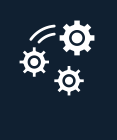
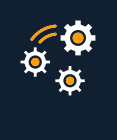
More graphics added, various fix

diff --git a/Marlin/src/lcd/extui/lib/mks_ui/draw_preHeat.cpp b/Marlin/src/lcd/extui/lib/mks_ui/draw_preHeat.cpp
@@ -161,8 +161,8 @@ void lv_draw_preHeat(void) {
   scr = lv_screen_create(PRE_HEAT_UI);
 
   // Create image buttons
-  lv_big_button_create(scr, "F:/bmp_Add.bin", preheat_menu.add, INTERVAL_V, titleHeight, event_handler, ID_P_ADD);
-  lv_big_button_create(scr, "F:/bmp_Dec.bin", preheat_menu.dec, BTN_X_PIXEL * 3 + INTERVAL_V * 4, titleHeight, event_handler, ID_P_DEC);
+  lv_big_button_create(scr, "F:/bmp_add.bin", preheat_menu.add, INTERVAL_V, titleHeight, event_handler, ID_P_ADD);
+  lv_big_button_create(scr, "F:/bmp_dec.bin", preheat_menu.dec, BTN_X_PIXEL * 3 + INTERVAL_V * 4, titleHeight, event_handler, ID_P_DEC);
 
   buttonType = lv_imgbtn_create(scr, nullptr, INTERVAL_V, BTN_Y_PIXEL + INTERVAL_H + titleHeight, event_handler, ID_P_TYPE);
   buttonStep = lv_imgbtn_create(scr, nullptr, BTN_X_PIXEL + INTERVAL_V * 2, BTN_Y_PIXEL + INTERVAL_H + titleHeight, event_handler, ID_P_STEP);
@@ -173,7 +173,7 @@ void lv_draw_preHeat(void) {
     }
   #endif
 
-  lv_big_button_create(scr, "F:/bmp_speed0.bin", preheat_menu.off, BTN_X_PIXEL * 2 + INTERVAL_V * 3, BTN_Y_PIXEL + INTERVAL_H + titleHeight, event_handler, ID_P_OFF);
+  lv_big_button_create(scr, "F:/bmp_0_degree.bin", preheat_menu.off, BTN_X_PIXEL * 2 + INTERVAL_V * 3, BTN_Y_PIXEL + INTERVAL_H + titleHeight, event_handler, ID_P_OFF);
   lv_big_button_create(scr, "F:/bmp_return.bin", common_menu.text_back, BTN_X_PIXEL * 3 + INTERVAL_V * 4, BTN_Y_PIXEL + INTERVAL_H + titleHeight, event_handler, ID_P_RETURN);
 
   // Create labels on the image buttons
@@ -191,14 +191,14 @@ void lv_draw_preHeat(void) {
 void disp_temp_type() {
   if (uiCfg.curTempType == 0) {
     if (uiCfg.curSprayerChoose == 1) {
-    lv_imgbtn_set_src_both(buttonType, "F:/bmp_extru2.bin");
+    lv_imgbtn_set_src_both(buttonType, "F:/bmp_extruder2.bin");
       if (gCfgItems.multiple_language) {
         lv_label_set_text(labelType, preheat_menu.ext2);
         lv_obj_align(labelType, buttonType, LV_ALIGN_IN_BOTTOM_MID, 0, BUTTON_TEXT_Y_OFFSET);
       }
     }
     else {
-    lv_imgbtn_set_src_both(buttonType, "F:/bmp_extru1.bin");
+    lv_imgbtn_set_src_both(buttonType, "F:/bmp_extruder1.bin");
       if (gCfgItems.multiple_language) {
         lv_label_set_text(labelType, preheat_menu.ext1);
         lv_obj_align(labelType, buttonType, LV_ALIGN_IN_BOTTOM_MID, 0, BUTTON_TEXT_Y_OFFSET);
@@ -238,13 +238,13 @@ void disp_desire_temp() {
 
 void disp_step_heat() {
   if (uiCfg.stepHeat == 1) {
-    lv_imgbtn_set_src_both(buttonStep, "F:/bmp_step1_degree.bin");
+    lv_imgbtn_set_src_both(buttonStep, "F:/bmp_step_a.bin");
   }
   else if (uiCfg.stepHeat == 5) {
-    lv_imgbtn_set_src_both(buttonStep, "F:/bmp_step5_degree.bin");
+    lv_imgbtn_set_src_both(buttonStep, "F:/bmp_step_b.bin");
   }
   else if (uiCfg.stepHeat == 10) {
-    lv_imgbtn_set_src_both(buttonStep, "F:/bmp_step10_degree.bin");
+    lv_imgbtn_set_src_both(buttonStep, "F:/bmp_step_c.bin");
   }
 
   if (gCfgItems.multiple_language) {

diff --git a/Marlin/src/lcd/extui/lib/mks_ui/draw_move_motor.cpp b/Marlin/src/lcd/extui/lib/mks_ui/draw_move_motor.cpp
@@ -116,13 +116,16 @@ static void event_handler(lv_obj_t *obj, lv_event_t event) {
 
 void lv_draw_move_motor(void) {
   scr = lv_screen_create(MOVE_MOTOR_UI);
-  lv_obj_t *buttonXI = lv_big_button_create(scr, "F:/bmp_xAdd.bin", move_menu.x_add, INTERVAL_V, titleHeight, event_handler, ID_M_X_P);
+  lv_obj_t *buttonXI = lv_big_button_create(scr, "F:/bmp_move_x_add.bin", move_menu.x_add, INTERVAL_V, titleHeight, event_handler, ID_M_X_P);
   lv_obj_clear_protect(buttonXI, LV_PROTECT_FOLLOW);
-  lv_big_button_create(scr, "F:/bmp_xDec.bin", move_menu.x_dec, INTERVAL_V, BTN_Y_PIXEL + INTERVAL_H + titleHeight, event_handler, ID_M_X_N);
-  lv_big_button_create(scr, "F:/bmp_yAdd.bin", move_menu.y_add, BTN_X_PIXEL + INTERVAL_V * 2, titleHeight, event_handler, ID_M_Y_P);
-  lv_big_button_create(scr, "F:/bmp_yDec.bin", move_menu.y_dec, BTN_X_PIXEL + INTERVAL_V * 2, BTN_Y_PIXEL + INTERVAL_H + titleHeight, event_handler, ID_M_Y_N);
-  lv_big_button_create(scr, "F:/bmp_zAdd.bin", move_menu.z_add, BTN_X_PIXEL * 2 + INTERVAL_V * 3, titleHeight, event_handler, ID_M_Z_P);
-  lv_big_button_create(scr, "F:/bmp_zDec.bin", move_menu.z_dec, BTN_X_PIXEL * 2 + INTERVAL_V * 3, BTN_Y_PIXEL + INTERVAL_H + titleHeight, event_handler, ID_M_Z_N);
+  lv_big_button_create(scr, "F:/bmp_move_x_dec.bin", move_menu.x_dec, INTERVAL_V, BTN_Y_PIXEL + INTERVAL_H + titleHeight, event_handler, ID_M_X_N);
+  lv_big_button_create(scr, "F:/bmp_move_y_add.bin", move_menu.y_add, BTN_X_PIXEL + INTERVAL_V * 2, titleHeight, event_handler, ID_M_Y_P);
+  lv_big_button_create(scr, "F:/bmp_move_y_dec.bin", move_menu.y_dec, BTN_X_PIXEL + INTERVAL_V * 2, BTN_Y_PIXEL + INTERVAL_H + titleHeight, event_handler, ID_M_Y_N);
+  lv_big_button_create(scr, "F:/bmp_move_z_add.bin", move_menu.z_add, BTN_X_PIXEL * 2 + INTERVAL_V * 3, titleHeight, event_handler, ID_M_Z_P);
+  lv_big_button_create(scr, "F:/bmp_move_z_dec.bin", move_menu.z_dec, BTN_X_PIXEL * 2 + INTERVAL_V * 3, BTN_Y_PIXEL + INTERVAL_H + titleHeight, event_handler, ID_M_Z_N);
+
+
+
 
   // button with image and label changed dinamycally by disp_move_dist
   buttonV = lv_imgbtn_create(scr, nullptr, BTN_X_PIXEL * 3 + INTERVAL_V * 4, titleHeight, event_handler, ID_M_STEP);
@@ -142,11 +145,11 @@ void disp_move_dist() {
   // char buf[30] = {0};
 
   if ((int)(10 * uiCfg.move_dist) == 1)
-    lv_imgbtn_set_src_both(buttonV, "F:/bmp_step_move0_1.bin");
+    lv_imgbtn_set_src_both(buttonV, "F:/bmp_step_a.bin");
   else if ((int)(10 * uiCfg.move_dist) == 10)
-    lv_imgbtn_set_src_both(buttonV, "F:/bmp_step_move1.bin");
+    lv_imgbtn_set_src_both(buttonV, "F:/bmp_step_b.bin");
   else if ((int)(10 * uiCfg.move_dist) == 100)
-    lv_imgbtn_set_src_both(buttonV, "F:/bmp_step_move10.bin");
+    lv_imgbtn_set_src_both(buttonV, "F:/bmp_step_c.bin");
 
   if (gCfgItems.multiple_language) {
     if ((int)(10 * uiCfg.move_dist) == 1) {

diff --git a/Marlin/src/lcd/extui/lib/mks_ui/pic_manager.cpp b/Marlin/src/lcd/extui/lib/mks_ui/pic_manager.cpp
@@ -44,11 +44,10 @@ extern unsigned char bmp_public_buf[14 * 1024];
 
 static const char assets[][LONG_FILENAME_LENGTH] = {
   //homing screen
-  "bmp_zeroAll.bin",
   "bmp_zero.bin",
-  "bmp_zeroX.bin",
-  "bmp_zeroY.bin",
-  "bmp_zeroZ.bin",
+  "bmp_zero_x.bin",
+  "bmp_zero_y.bin",
+  "bmp_zero_z.bin",
   "bmp_manual_off.bin",
 
   //tool screen
@@ -61,11 +60,11 @@ static const char assets[][LONG_FILENAME_LENGTH] = {
   "bmp_more.bin",
 
   //fan screen
-  "bmp_Add.bin",
-  "bmp_Dec.bin",
+  "bmp_add.bin",
+  "bmp_dec.bin",
   "bmp_speed255.bin",
   "bmp_speed127.bin",
-  "bmp_speed0.bin",
+  "bmp_0_degree.bin",
 
   //preheat screen
   // "bmp_Add.bin",
@@ -74,23 +73,19 @@ static const char assets[][LONG_FILENAME_LENGTH] = {
   // "bmp_Extru2.bin",
   // "bmp_Extru1.bin",
   "bmp_bed.bin",
-  "bmp_step1_degree.bin",
-  "bmp_step5_degree.bin",
-  "bmp_step10_degree.bin",
-
   //extrusion screen
-  "bmp_in.bin",
-  "bmp_out.bin",
-  "bmp_extru1.bin",
+  "bmp_filament_in.bin",
+  "bmp_filament_out.bin",
+  "bmp_extruder1.bin",
   #if HAS_MULTI_EXTRUDER
-    "bmp_extru2.bin",
+    "bmp_extruder2.bin",
   #endif
   "bmp_speed_high.bin",
   "bmp_speed_slow.bin",
   "bmp_speed_normal.bin",
-  "bmp_step1_mm.bin",
-  "bmp_step5_mm.bin",
-  "bmp_step10_mm.bin",
+  "bmp_step_a.bin",
+  "bmp_step_b.bin",
+  "bmp_step_c.bin",
 
   //select file screen
   "bmp_pageUp.bin",
@@ -101,15 +96,13 @@ static const char assets[][LONG_FILENAME_LENGTH] = {
 
   //move motor screen
   //TODO: 6 equal icons, just in diffenct rotation... it may be optimized too
-  "bmp_xAdd.bin",
-  "bmp_xDec.bin",
-  "bmp_yAdd.bin",
-  "bmp_yDec.bin",
-  "bmp_zAdd.bin",
-  "bmp_zDec.bin",
-  "bmp_step_move0_1.bin",
-  "bmp_step_move1.bin",
-  "bmp_step_move10.bin",
+  "bmp_move_x_add.bin",
+  "bmp_move_x_dec.bin",
+  "bmp_move_y_add.bin",
+  "bmp_move_y_dec.bin",
+  "bmp_move_z_add.bin",
+  "bmp_move_z_dec.bin",
+  
 
   //operation screen
   "bmp_auto_off.bin",
@@ -121,9 +114,6 @@ static const char assets[][LONG_FILENAME_LENGTH] = {
   "bmp_move_opr.bin",
 
   //change speed screen
-  "bmp_step1_percent.bin",
-  "bmp_step5_percent.bin",
-  "bmp_step10_percent.bin",
   "bmp_extruder_sel.bin",
   "bmp_move_changespeed.bin",
   // "bmp_extrude_opr.bin", equal to "bmp_Extruct.bin"
@@ -189,7 +179,7 @@ static const char assets[][LONG_FILENAME_LENGTH] = {
   "bmp_about.bin",
   "bmp_eeprom_settings.bin",
   "bmp_machine_para.bin",
-  "bmp_function1.bin",
+  "bmp_stop.bin",
   //"bmp_manual_off.bin",
   //"bmp_Fan.bin",
   //"bmp_Language.bin",

diff --git a/Marlin/src/lcd/extui/lib/mks_ui/draw_extrusion.cpp b/Marlin/src/lcd/extui/lib/mks_ui/draw_extrusion.cpp
@@ -124,9 +124,9 @@ static void event_handler(lv_obj_t *obj, lv_event_t event) {
 void lv_draw_extrusion(void) {
   scr = lv_screen_create(EXTRUSION_UI);
   // Create image buttons
-  lv_obj_t *buttonAdd = lv_big_button_create(scr, "F:/bmp_in.bin", extrude_menu.in, INTERVAL_V, titleHeight, event_handler, ID_E_ADD);
+  lv_obj_t *buttonAdd = lv_big_button_create(scr, "F:/bmp_filament_in.bin", extrude_menu.in, INTERVAL_V, titleHeight, event_handler, ID_E_ADD);
   lv_obj_clear_protect(buttonAdd, LV_PROTECT_FOLLOW);
-  lv_big_button_create(scr, "F:/bmp_out.bin", extrude_menu.out, BTN_X_PIXEL * 3 + INTERVAL_V * 4, titleHeight, event_handler, ID_E_DEC);
+  lv_big_button_create(scr, "F:/bmp_filament_out.bin", extrude_menu.out, BTN_X_PIXEL * 3 + INTERVAL_V * 4, titleHeight, event_handler, ID_E_DEC);
 
   buttonType = lv_imgbtn_create(scr, nullptr, INTERVAL_V, BTN_Y_PIXEL + INTERVAL_H + titleHeight, event_handler, ID_E_TYPE);
   buttonStep = lv_imgbtn_create(scr, nullptr, BTN_X_PIXEL + INTERVAL_V * 2, BTN_Y_PIXEL + INTERVAL_H + titleHeight, event_handler, ID_E_STEP);
@@ -162,14 +162,14 @@ void lv_draw_extrusion(void) {
 
 void disp_ext_type() {
   if (uiCfg.curSprayerChoose == 1) {
-    lv_imgbtn_set_src_both(buttonType, "F:/bmp_extru2.bin");
+    lv_imgbtn_set_src_both(buttonType, "F:/bmp_extruder2.bin");
     if (gCfgItems.multiple_language) {
       lv_label_set_text(labelType, extrude_menu.ext2);
       lv_obj_align(labelType, buttonType, LV_ALIGN_IN_BOTTOM_MID, 0, BUTTON_TEXT_Y_OFFSET);
     }
   }
   else {
-    lv_imgbtn_set_src_both(buttonType, "F:/bmp_extru1.bin");
+    lv_imgbtn_set_src_both(buttonType, "F:/bmp_extruder1.bin");
     if (gCfgItems.multiple_language) {
       lv_label_set_text(labelType, extrude_menu.ext1);
       lv_obj_align(labelType, buttonType, LV_ALIGN_IN_BOTTOM_MID, 0, BUTTON_TEXT_Y_OFFSET);
@@ -230,11 +230,11 @@ void disp_extru_amount() {
 
 void disp_ext_step() {
   if (uiCfg.extruStep == 1)
-    lv_imgbtn_set_src_both(buttonStep, "F:/bmp_step1_mm.bin");
+    lv_imgbtn_set_src_both(buttonStep, "F:/bmp_step_a.bin");
   else if (uiCfg.extruStep == 5)
-    lv_imgbtn_set_src_both(buttonStep, "F:/bmp_step5_mm.bin");
+    lv_imgbtn_set_src_both(buttonStep, "F:/bmp_step_b.bin");
   else if (uiCfg.extruStep == 10)
-    lv_imgbtn_set_src_both(buttonStep, "F:/bmp_step10_mm.bin");
+    lv_imgbtn_set_src_both(buttonStep, "F:/bmp_step_c.bin");
 
   if (gCfgItems.multiple_language) {
     if (uiCfg.extruStep == 1) {

diff --git a/Marlin/src/lcd/extui/lib/mks_ui/draw_home.cpp b/Marlin/src/lcd/extui/lib/mks_ui/draw_home.cpp
@@ -66,9 +66,9 @@ static void event_handler(lv_obj_t *obj, lv_event_t event) {
     case ID_H_OFF_ALL:
       queue.inject_P(PSTR("M84"));
       break;
-    case ID_H_OFF_XY:
-      queue.inject_P(PSTR("M84 X Y"));
-      break;
+    // case ID_H_OFF_XY:
+    //   queue.inject_P(PSTR("M84 X Y"));
+    //   break;
     case ID_H_RETURN:
       lv_clear_home();
       lv_draw_tool();
@@ -78,12 +78,12 @@ static void event_handler(lv_obj_t *obj, lv_event_t event) {
 
 void lv_draw_home(void) {
   scr = lv_screen_create(ZERO_UI);
-  lv_big_button_create(scr, "F:/bmp_zeroAll.bin", home_menu.home_all, INTERVAL_V, titleHeight, event_handler, ID_H_ALL);
-  lv_big_button_create(scr, "F:/bmp_zeroX.bin", home_menu.home_x, BTN_X_PIXEL + INTERVAL_V * 2, titleHeight, event_handler, ID_H_X);
-  lv_big_button_create(scr, "F:/bmp_zeroY.bin", home_menu.home_y, BTN_X_PIXEL * 2 + INTERVAL_V * 3, titleHeight, event_handler, ID_H_Y);
-  lv_big_button_create(scr, "F:/bmp_zeroZ.bin", home_menu.home_z, BTN_X_PIXEL * 3 + INTERVAL_V * 4, titleHeight, event_handler, ID_H_Z);
-  lv_big_button_create(scr, "F:/bmp_function1.bin", set_menu.motoroff, INTERVAL_V, BTN_Y_PIXEL + INTERVAL_H + titleHeight, event_handler, ID_H_OFF_ALL);
-  lv_big_button_create(scr, "F:/bmp_function1.bin", set_menu.motoroffXY, BTN_X_PIXEL + INTERVAL_V * 2, BTN_Y_PIXEL + INTERVAL_H + titleHeight, event_handler, ID_H_OFF_XY);
+  lv_big_button_create(scr, "F:/bmp_zero.bin", home_menu.home_all, INTERVAL_V, titleHeight, event_handler, ID_H_ALL);
+  lv_big_button_create(scr, "F:/bmp_zero_x.bin", home_menu.home_x, BTN_X_PIXEL + INTERVAL_V * 2, titleHeight, event_handler, ID_H_X);
+  lv_big_button_create(scr, "F:/bmp_zero_y.bin", home_menu.home_y, BTN_X_PIXEL * 2 + INTERVAL_V * 3, titleHeight, event_handler, ID_H_Y);
+  lv_big_button_create(scr, "F:/bmp_zero_z.bin", home_menu.home_z, BTN_X_PIXEL * 3 + INTERVAL_V * 4, titleHeight, event_handler, ID_H_Z);
+  lv_big_button_create(scr, "F:/bmp_stop.bin", set_menu.motoroff, INTERVAL_V, BTN_Y_PIXEL + INTERVAL_H + titleHeight, event_handler, ID_H_OFF_ALL);
+  // lv_big_button_create(scr, "F:/bmp_function1.bin", set_menu.motoroffXY, BTN_X_PIXEL + INTERVAL_V * 2, BTN_Y_PIXEL + INTERVAL_H + titleHeight, event_handler, ID_H_OFF_XY);
   lv_big_button_create(scr, "F:/bmp_return.bin", common_menu.text_back, BTN_X_PIXEL * 3 + INTERVAL_V * 4, BTN_Y_PIXEL + INTERVAL_H + titleHeight, event_handler, ID_H_RETURN);
 }
 

diff --git a/Marlin/src/lcd/extui/lib/mks_ui/draw_baby_stepping.cpp b/Marlin/src/lcd/extui/lib/mks_ui/draw_baby_stepping.cpp
@@ -113,12 +113,12 @@ static void event_handler(lv_obj_t *obj, lv_event_t event) {
 
 void lv_draw_baby_stepping(void) {
   scr = lv_screen_create(BABY_STEP_UI);
-  lv_big_button_create(scr, "F:/bmp_xAdd.bin", move_menu.x_add, INTERVAL_V, titleHeight, event_handler, ID_BABY_STEP_X_P);
-  lv_big_button_create(scr, "F:/bmp_xDec.bin", move_menu.x_dec, INTERVAL_V, BTN_Y_PIXEL + INTERVAL_H + titleHeight, event_handler, ID_BABY_STEP_X_N);
-  lv_big_button_create(scr, "F:/bmp_yAdd.bin", move_menu.y_add, BTN_X_PIXEL + INTERVAL_V * 2, titleHeight, event_handler, ID_BABY_STEP_Y_P);
-  lv_big_button_create(scr, "F:/bmp_yDec.bin", move_menu.y_dec, BTN_X_PIXEL + INTERVAL_V * 2, BTN_Y_PIXEL + INTERVAL_H + titleHeight, event_handler, ID_BABY_STEP_Y_N);
-  lv_big_button_create(scr, "F:/bmp_zAdd.bin", move_menu.z_add, BTN_X_PIXEL * 2 + INTERVAL_V * 3, titleHeight, event_handler, ID_BABY_STEP_Z_P);
-  lv_big_button_create(scr, "F:/bmp_zDec.bin", move_menu.z_dec, BTN_X_PIXEL * 2 + INTERVAL_V * 3, BTN_Y_PIXEL + INTERVAL_H + titleHeight, event_handler, ID_BABY_STEP_Z_N);
+  lv_big_button_create(scr, "F:/bmp_move_x_add.bin", move_menu.x_add, INTERVAL_V, titleHeight, event_handler, ID_BABY_STEP_X_P);
+  lv_big_button_create(scr, "F:/bmp_move_x_dec.bin", move_menu.x_dec, INTERVAL_V, BTN_Y_PIXEL + INTERVAL_H + titleHeight, event_handler, ID_BABY_STEP_X_N);
+  lv_big_button_create(scr, "F:/bmp_move_y_add.bin", move_menu.y_add, BTN_X_PIXEL + INTERVAL_V * 2, titleHeight, event_handler, ID_BABY_STEP_Y_P);
+  lv_big_button_create(scr, "F:/bmp_move_y_dec.bin", move_menu.y_dec, BTN_X_PIXEL + INTERVAL_V * 2, BTN_Y_PIXEL + INTERVAL_H + titleHeight, event_handler, ID_BABY_STEP_Y_N);
+  lv_big_button_create(scr, "F:/bmp_move_z_add.bin", move_menu.z_add, BTN_X_PIXEL * 2 + INTERVAL_V * 3, titleHeight, event_handler, ID_BABY_STEP_Z_P);
+  lv_big_button_create(scr, "F:/bmp_move_z_dec.bin", move_menu.z_dec, BTN_X_PIXEL * 2 + INTERVAL_V * 3, BTN_Y_PIXEL + INTERVAL_H + titleHeight, event_handler, ID_BABY_STEP_Z_N);
   buttonV = lv_imgbtn_create(scr, nullptr, BTN_X_PIXEL * 3 + INTERVAL_V * 4, titleHeight, event_handler, ID_BABY_STEP_DIST);
   labelV = lv_label_create_empty(buttonV);
   #if HAS_ROTARY_ENCODER

diff --git a/Marlin/src/lcd/extui/lib/mks_ui/draw_filament_change.cpp b/Marlin/src/lcd/extui/lib/mks_ui/draw_filament_change.cpp
@@ -114,9 +114,9 @@ static void event_handler(lv_obj_t *obj, lv_event_t event) {
 void lv_draw_filament_change(void) {
   scr = lv_screen_create(FILAMENTCHANGE_UI);
   // Create an Image button
-  lv_obj_t *buttonIn = lv_big_button_create(scr, "F:/bmp_in.bin", filament_menu.in, INTERVAL_V, titleHeight, event_handler, ID_FILAMNT_IN);
+  lv_obj_t *buttonIn = lv_big_button_create(scr, "F:/bmp_filament_in.bin", filament_menu.in, INTERVAL_V, titleHeight, event_handler, ID_FILAMNT_IN);
   lv_obj_clear_protect(buttonIn, LV_PROTECT_FOLLOW);
-  lv_big_button_create(scr, "F:/bmp_out.bin", filament_menu.out, BTN_X_PIXEL * 3 + INTERVAL_V * 4, titleHeight, event_handler, ID_FILAMNT_OUT);
+  lv_big_button_create(scr, "F:/bmp_filament_out.bin", filament_menu.out, BTN_X_PIXEL * 3 + INTERVAL_V * 4, titleHeight, event_handler, ID_FILAMNT_OUT);
 
   buttonType = lv_imgbtn_create(scr, nullptr, INTERVAL_V, BTN_Y_PIXEL + INTERVAL_H + titleHeight, event_handler, ID_FILAMNT_TYPE);
   #if HAS_ROTARY_ENCODER
@@ -139,14 +139,14 @@ void lv_draw_filament_change(void) {
 
 void disp_filament_type() {
   if (uiCfg.curSprayerChoose == 1) {
-    lv_imgbtn_set_src_both(buttonType, "F:/bmp_extru2.bin");
+    lv_imgbtn_set_src_both(buttonType, "F:/bmp_extruder2.bin");
     if (gCfgItems.multiple_language) {
       lv_label_set_text(labelType, preheat_menu.ext2);
       lv_obj_align(labelType, buttonType, LV_ALIGN_IN_BOTTOM_MID, 0, BUTTON_TEXT_Y_OFFSET);
     }
   }
   else {
-    lv_imgbtn_set_src_both(buttonType, "F:/bmp_extru1.bin");
+    lv_imgbtn_set_src_both(buttonType, "F:/bmp_extruder1.bin");
     if (gCfgItems.multiple_language) {
       lv_label_set_text(labelType, preheat_menu.ext1);
       lv_obj_align(labelType, buttonType, LV_ALIGN_IN_BOTTOM_MID, 0, BUTTON_TEXT_Y_OFFSET);

diff --git a/Marlin/src/lcd/extui/lib/mks_ui/draw_change_speed.cpp b/Marlin/src/lcd/extui/lib/mks_ui/draw_change_speed.cpp
@@ -128,8 +128,8 @@ static void event_handler(lv_obj_t *obj, lv_event_t event) {
 void lv_draw_change_speed(void) {
   scr = lv_screen_create(CHANGE_SPEED_UI);
   // Create an Image button
-  lv_big_button_create(scr, "F:/bmp_Add.bin", speed_menu.add, INTERVAL_V, titleHeight, event_handler, ID_C_ADD);
-  lv_big_button_create(scr, "F:/bmp_Dec.bin", speed_menu.dec, BTN_X_PIXEL * 3 + INTERVAL_V * 4, titleHeight, event_handler, ID_C_DEC);
+  lv_big_button_create(scr, "F:/bmp_add.bin", speed_menu.add, INTERVAL_V, titleHeight, event_handler, ID_C_ADD);
+  lv_big_button_create(scr, "F:/bmp_dec.bin", speed_menu.dec, BTN_X_PIXEL * 3 + INTERVAL_V * 4, titleHeight, event_handler, ID_C_DEC);
   buttonMov  = lv_imgbtn_create(scr, nullptr, INTERVAL_V, BTN_Y_PIXEL + INTERVAL_H + titleHeight, event_handler, ID_C_MOVE);
   buttonExt  = lv_imgbtn_create(scr, nullptr, BTN_X_PIXEL + INTERVAL_V * 2, BTN_Y_PIXEL + INTERVAL_H + titleHeight, event_handler, ID_C_EXT);
   buttonStep = lv_imgbtn_create(scr, nullptr, BTN_X_PIXEL * 2 + INTERVAL_V * 3, BTN_Y_PIXEL + INTERVAL_H + titleHeight, event_handler, ID_C_STEP);
@@ -165,11 +165,11 @@ void lv_draw_change_speed(void) {
 
 void disp_speed_step() {
   if (uiCfg.stepPrintSpeed == 1)
-    lv_imgbtn_set_src_both(buttonStep, "F:/bmp_step1_percent.bin");
+    lv_imgbtn_set_src_both(buttonStep, "F:/bmp_step_a.bin");
   else if (uiCfg.stepPrintSpeed == 5)
-    lv_imgbtn_set_src_both(buttonStep, "F:/bmp_step5_percent.bin");
+    lv_imgbtn_set_src_both(buttonStep, "F:/bmp_step_b.bin");
   else if (uiCfg.stepPrintSpeed == 10)
-    lv_imgbtn_set_src_both(buttonStep, "F:/bmp_step10_percent.bin");
+    lv_imgbtn_set_src_both(buttonStep, "F:/bmp_step_c.bin");
 
   if (gCfgItems.multiple_language) {
     if (uiCfg.stepPrintSpeed == 1) {

diff --git a/Marlin/src/lcd/extui/lib/mks_ui/draw_set.cpp b/Marlin/src/lcd/extui/lib/mks_ui/draw_set.cpp
@@ -134,7 +134,7 @@ void lv_draw_set(void) {
   lv_big_button_create(scr, "F:/bmp_eeprom_settings.bin", set_menu.eepromSet, INTERVAL_V, titleHeight, event_handler, ID_S_EEPROM_SET);
   lv_big_button_create(scr, "F:/bmp_fan.bin", set_menu.fan, BTN_X_PIXEL + INTERVAL_V * 2, titleHeight, event_handler, ID_S_FAN);
   lv_big_button_create(scr, "F:/bmp_about.bin", set_menu.about, BTN_X_PIXEL * 2 + INTERVAL_V * 3, titleHeight, event_handler, ID_S_ABOUT);
-  lv_big_button_create(scr, ENABLED(HAS_SUICIDE) ? "F:/bmp_manual_off.bin" : "F:/bmp_function1.bin", set_menu.TERN(HAS_SUICIDE, shutdown, motoroff), BTN_X_PIXEL * 3 + INTERVAL_V * 4, titleHeight, event_handler, ID_S_MOTOR_OFF);
+  lv_big_button_create(scr, ENABLED(HAS_SUICIDE) ? "F:/bmp_manual_off.bin" : "F:/bmp_stop.bin", set_menu.TERN(HAS_SUICIDE, shutdown, motoroff), BTN_X_PIXEL * 3 + INTERVAL_V * 4, titleHeight, event_handler, ID_S_MOTOR_OFF);
   lv_big_button_create(scr, "F:/bmp_machine_para.bin", set_menu.machine_para, INTERVAL_V, BTN_Y_PIXEL + INTERVAL_H + titleHeight, event_handler, ID_S_MACHINE_PARA);
   #if HAS_LANG_SELECT_SCREEN
     lv_big_button_create(scr, "F:/bmp_language.bin", set_menu.language, BTN_X_PIXEL + INTERVAL_V * 2, BTN_Y_PIXEL + INTERVAL_H + titleHeight, event_handler, ID_S_LANGUAGE);

diff --git a/Marlin/src/lcd/extui/lib/mks_ui/draw_fan.cpp b/Marlin/src/lcd/extui/lib/mks_ui/draw_fan.cpp
@@ -94,7 +94,7 @@ void lv_draw_fan(void) {
   // Create an Image button
   buttonAdd  = lv_big_button_create(scr, "F:/bmp_Add.bin", fan_menu.add, INTERVAL_V, titleHeight, event_handler, ID_F_ADD);
   lv_obj_clear_protect(buttonAdd, LV_PROTECT_FOLLOW);
-  lv_big_button_create(scr, "F:/bmp_Dec.bin", fan_menu.dec, BTN_X_PIXEL * 3 + INTERVAL_V * 4, titleHeight, event_handler, ID_F_DEC);
+  lv_big_button_create(scr, "F:/bmp_dec.bin", fan_menu.dec, BTN_X_PIXEL * 3 + INTERVAL_V * 4, titleHeight, event_handler, ID_F_DEC);
   lv_big_button_create(scr, "F:/bmp_speed255.bin", fan_menu.full, INTERVAL_V, BTN_Y_PIXEL + INTERVAL_H + titleHeight, event_handler, ID_F_HIGH);
   lv_big_button_create(scr, "F:/bmp_speed127.bin", fan_menu.half, BTN_X_PIXEL + INTERVAL_V * 2, BTN_Y_PIXEL + INTERVAL_H + titleHeight, event_handler, ID_F_MID);
   lv_big_button_create(scr, "F:/bmp_speed0.bin", fan_menu.off, BTN_X_PIXEL * 2 + INTERVAL_V * 3, BTN_Y_PIXEL + INTERVAL_H + titleHeight, event_handler, ID_F_OFF);

diff --git a/Marlin/src/lcd/extui/lib/mks_ui/draw_touch_calibration.cpp b/Marlin/src/lcd/extui/lib/mks_ui/draw_touch_calibration.cpp
@@ -81,7 +81,7 @@ void lv_update_touch_calibration_screen() {
     // end calibration
     str = calibration_stage == CALIBRATION_SUCCESS ? GET_TEXT(MSG_CALIBRATION_COMPLETED) : GET_TEXT(MSG_CALIBRATION_FAILED);
     touch_calibration.calibration_end();
-    lv_big_button_create(scr, "F:/bmp_return.bin", common_menu.text_back, BTN_X_PIXEL * 3 + INTERVAL_V * 4, BTN_Y_PIXEL + INTERVAL_H + titleHeight, event_handler, ID_TC_RETURN);
+    lv_big_button_create(scr, "F:/bmp_return.bin", common_menu.text_back, INTERVAL_V , BTN_Y_PIXEL + INTERVAL_H + titleHeight, event_handler, ID_TC_RETURN);
   }
 
   // draw current message

diff --git a/Marlin/Configuration.h b/Marlin/Configuration.h
@@ -2379,7 +2379,7 @@
   #define BUTTON_DELAY_EDIT  50 // (ms) Button repeat delay for edit screens
   #define BUTTON_DELAY_MENU 250 // (ms) Button repeat delay for menus
 
-// #define TOUCH_SCREEN_CALIBRATION
+  #define TOUCH_SCREEN_CALIBRATION
 
   #define TOUCH_CALIBRATION_X 16810
   #define TOUCH_CALIBRATION_Y -11492
